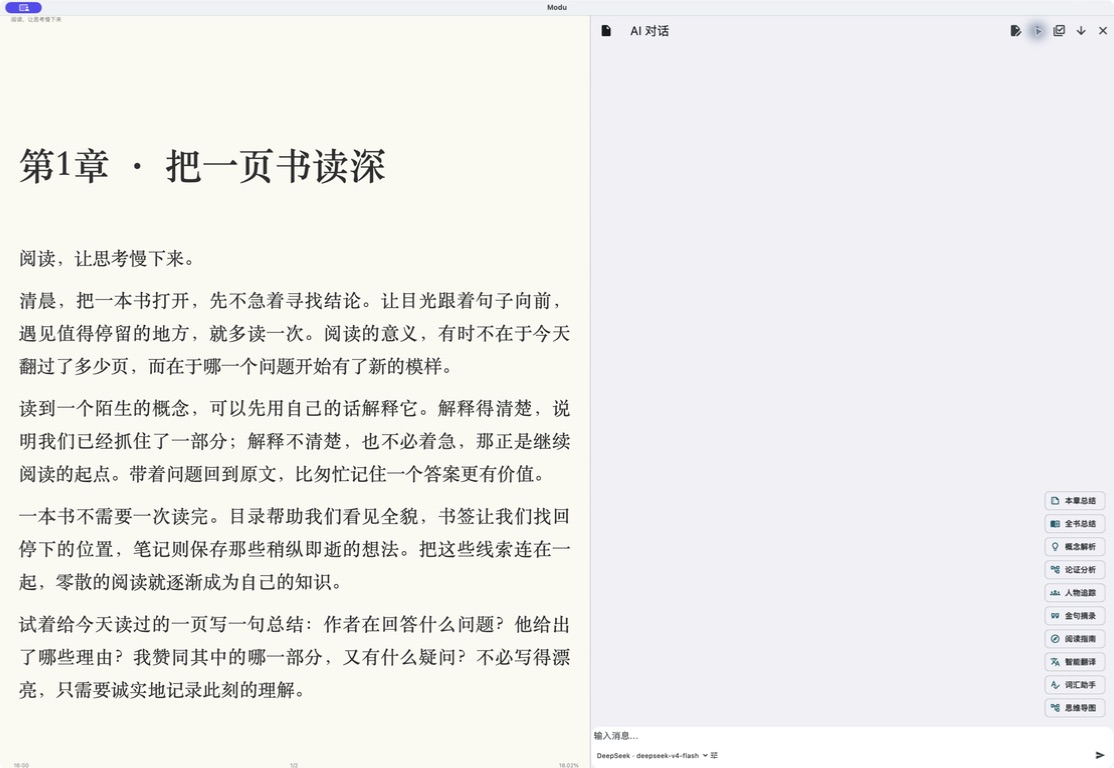
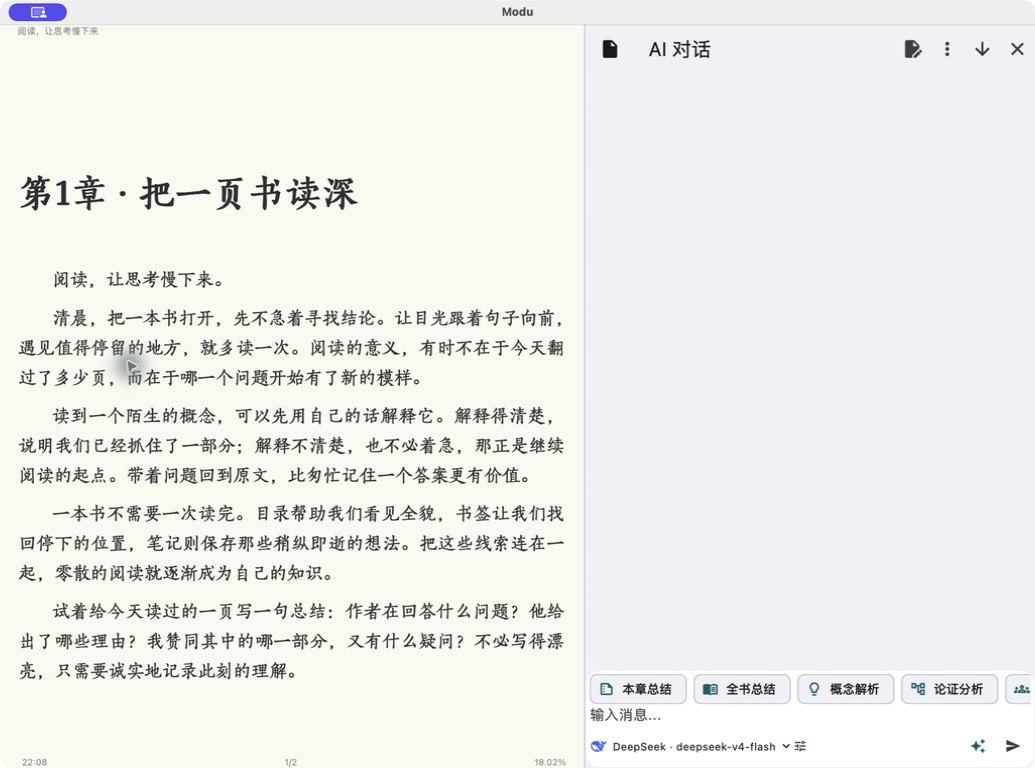
docs: refresh 1.1.1 screenshots and showcase classical vertical reading

diff --git a/docs/images/README.md b/docs/images/README.md
@@ -1,7 +1,13 @@
 # Screenshot provenance / 截图来源
 
-The current Modu homepage uses the `reading-epub-macos.jpg`, `reading-ai-panel-macos.jpg`, `ai-home-prompts-macos.jpg` and other Modu images explicitly linked from the root README. Those captures use the project's original demo book and show an earlier macOS build; they are not evidence of universal endpoint or device compatibility.
+The seven Modu screenshots linked from the Chinese and English root READMEs were captured with Computer Use from the actual macOS release **1.1.1+10033** on **2026-09-21**. The release was temporarily launched from its disk image without replacing the installed app.
+
+- `reading-epub-macos.jpg`, `reading-ai-panel-macos.jpg`, `reading-toc-macos.jpg`: the project's original demo book, 《阅读，让思考慢下来》.
+- `reading-vertical-border-macos.jpg`: the user-approved local 《古文观止译注评（全二册）》 reading view, with a red frame and column rules. Only the screenshot is published, not the book file.
+- `ai-home-prompts-macos.jpg`, `ai-reading-skills-macos.jpg`, `vector-models-macos.jpg`: the release's actual AI and model-management interfaces.
+
+These are uncomposited app-window captures. No AI request was sent for the captures and no generated answer was fabricated. No credentials, private conversations or library overview are included. Visible settings reflect this session, not default values. These images are not evidence of universal endpoint or device compatibility.
 
 `Anx-logo.jpg`, `main.jpg` and the inherited `wide*.png` / `mobile*.png` series were linked from the old upstream homepages. They are historical Anx Reader material, not current Modu screenshots or evidence of Modu store availability. Do not reuse them as current Modu marketing images.
 
-当前首页使用明确标注的默读实拍及原创示例书。上游旧图保留用于来源追溯，不作为默读功能、界面或商店上架证明；不能只换标题后重新宣传。
+当前首页的七张截图于 2026-09-21 实拍自默读 macOS 正式版 1.1.1+10033，使用 Computer Use 操作真实应用。横排使用项目原创示例书，竖排使用用户确认的本地《古文观止》界面；不上传该书文件，不合成 AI 回复，不展示密钥、私人对话或书架总览。上游旧图保留用于来源追溯，不作为默读功能、界面或商店上架证明；不能只换标题后重新宣传。

diff --git a/docs/examples/README.md b/docs/examples/README.md
@@ -5,4 +5,4 @@
 - `modu-reading-demo.epub`：可以直接导入默读，包含三个章节及 EPUB 目录。
 - `make_screenshot_book.py`：保留全部原始文字和 EPUB 生成逻辑，运行 `python3 docs/examples/make_screenshot_book.py` 可重新生成。
 
-截图来自 macOS 公开测试版的真实界面，没有合成 AI 回复或修改 UI。为展示正文，截图时临时选用单列、较大字号；拍摄完成后恢复了原来的自动分栏和字号。示例书未成功建立向量索引（当时本地模型未下载），因此截图不展示或宣称 RAG 成功。
+当前 README 的横排阅读、AI 侧栏与目录截图于 2026-09-21 拍摄自 macOS 正式版 1.1.1+10033，使用此示例书展示真实界面，没有合成 AI 回复或修改截图中的 UI。截图仅展示阅读与 AI 操作入口，不作为 RAG 检索结果或模型回答质量的证明。古籍竖排截图的来源另见 [截图说明](../images/README.md)。
